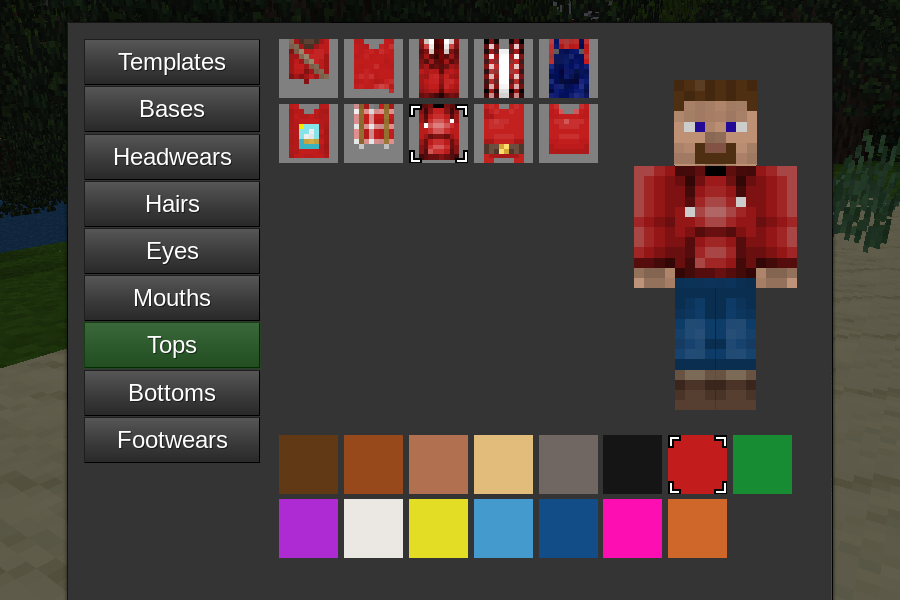
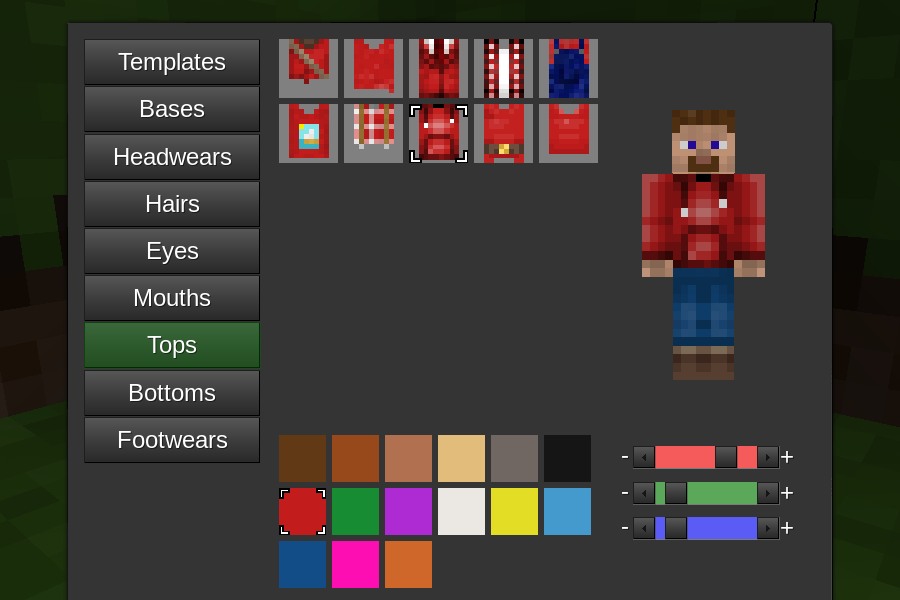
Add RGB sliders

Changed region(s): [[0.3111, 0.12, 1.0, 1.0], [0.0, 0.0, 0.4356, 1.0], [0.6222, 0.0, 0.6533, 0.03]]

diff --git a/README.md b/README.md
@@ -1,12 +1,13 @@
 # Edit Skin Mod
-[![ContentDB](https://content.minetest.net/packages/Mr.%20Rar/edit/shields/downloads/)](https://content.minetest.net/packages/Mr.%20Rar/edit_skin/)
+[![ContentDB](https://content.minetest.net/packages/Mr.%20Rar/edit_skin/shields/downloads/)](https://content.minetest.net/packages/Mr.%20Rar/edit_skin/)
 
 ![screenshot](screenshot.png)
 
 This mod allows advanced skin customization.
 New players get a randomly selected male or female skin.
-It is compatible with sfinv, i3, unified_inventory, inventory_plus, smart_inventory and 3d_armor.
+It is compatible with sfinv, sfinv_buttons, i3, unified_inventory, inventory_plus, smart_inventory, and 3d_armor.
 Use the /skin command to open the skin configuration screen.
+This mod requires Minetest 5+
 This mod was originally made for MineClone 5.
 
 ## License
